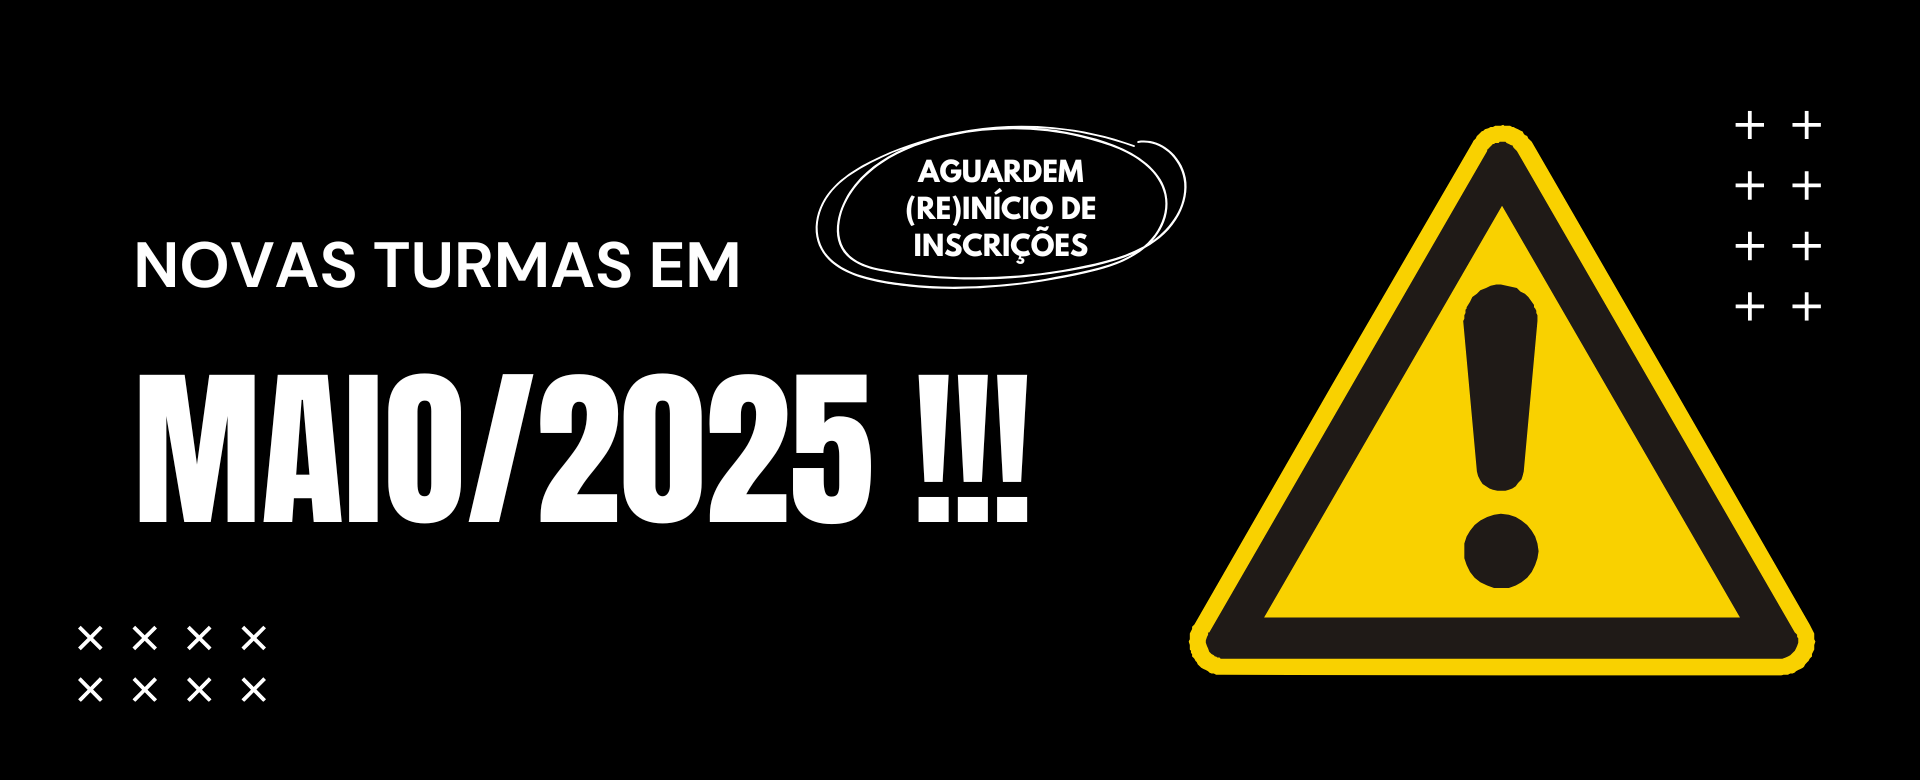
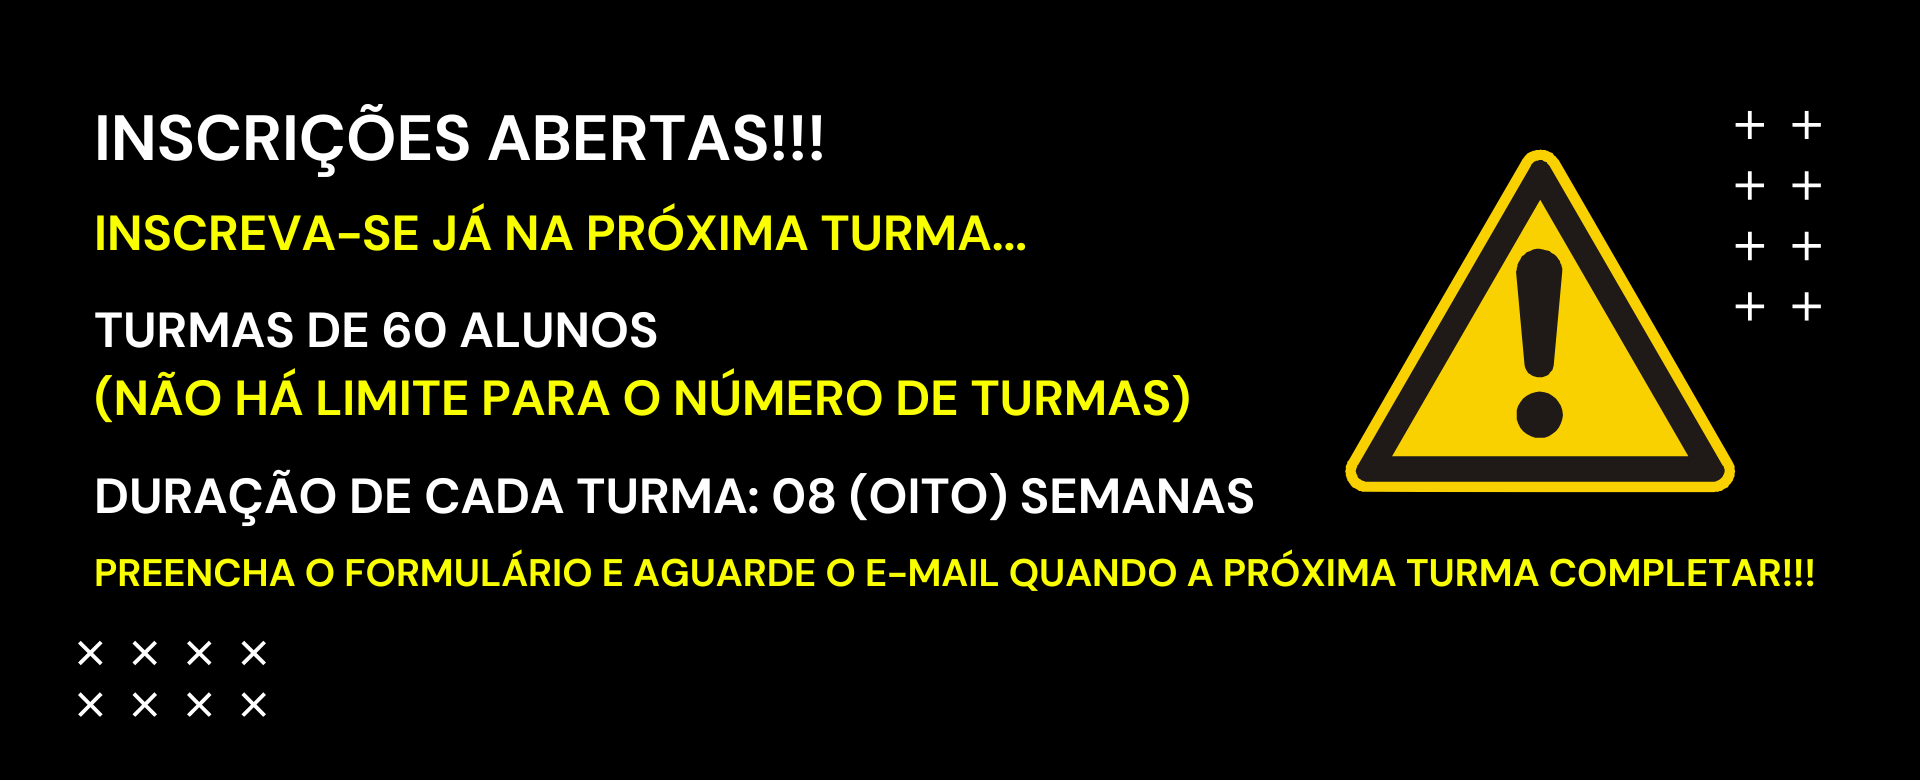
Add files via upload

Changed region(s): [[0.0312, 0.1538, 0.9688, 0.8923], [0.0312, 0.1231, 0.625, 0.3692], [0.0312, 0.8, 0.1562, 0.9231]]

diff --git a/config/docs/cursos/ieh.md b/config/docs/cursos/ieh.md
@@ -4,9 +4,7 @@ hide:
 ---
 ![Introdução ao Ethical Hacking](./assets/images/banner_ieh.png)
 
-![Inscrições Abertas](./assets/images/aviso_ieh_ok.png)
-
-??? abstract "Formulário para Inscrições neste Curso"
+??? abstract "Formulário para Inscrições neste Curso (preencha para se inscrever na próxima turma)"
     <div class="video-wrapper">
       <iframe src="https://forms.gle/ABmYQhrrAfhGchqs7" width="1024" height="1024" frameborder="0" marginheight="0" marginwidth="0">Carregando…</iframe>
     </div>
@@ -103,4 +101,6 @@ hide:
         3. Exploranção de vulnerabilidades com Metasploit
 
 - <a href="../assets/arquivos/Introdução_ao_Ethical_Hacking_na_modalidade_à_distância.pdf" target="_blank">PPC do Curso (Aprovado pelo Colegiado da DIAC/CN) [Donwload]</a>
+
+![Inscrições Abertas](./assets/images/aviso_ieh.png)
 
